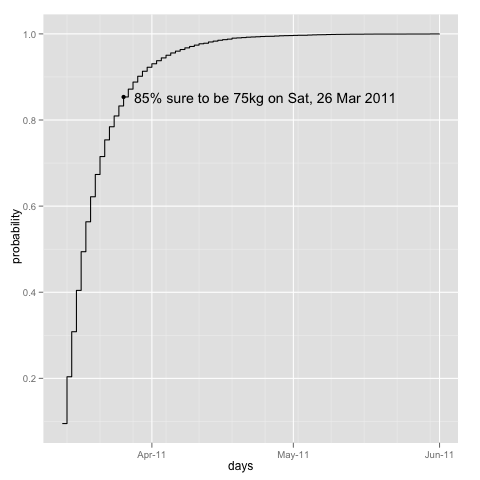
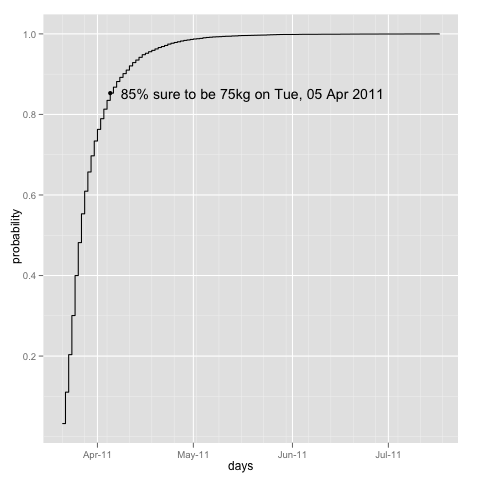
ex5.2

diff --git a/_includes/tags.html b/_includes/tags.html
@@ -1,1 +1,1 @@
-<h3 id="title-tags">tags</h3><div id="tags"><a href="/tags/abtesting.html" id="tag" title="Postings tagged abtesting" style="font-size: 13.0px; line-height:13.0px">abtesting</a> <a href="/tags/automations.html" id="tag" title="Postings tagged automations" style="font-size: 19.0px; line-height:19.0px">automations</a> <a href="/tags/clojure.html" id="tag" title="Postings tagged clojure" style="font-size: 16.0px; line-height:16.0px">clojure</a> <a href="/tags/emacs.html" id="tag" title="Postings tagged emacs" style="font-size: 14.5px; line-height:14.5px">emacs</a> <a href="/tags/google.html" id="tag" title="Postings tagged google" style="font-size: 11.5px; line-height:11.5px">google</a> <a href="/tags/guitar.html" id="tag" title="Postings tagged guitar" style="font-size: 11.5px; line-height:11.5px">guitar</a> <a href="/tags/health.html" id="tag" title="Postings tagged health" style="font-size: 11.5px; line-height:11.5px">health</a> <a href="/tags/incanter.html" id="tag" title="Postings tagged incanter" style="font-size: 11.5px; line-height:11.5px">incanter</a> <a href="/tags/javascript.html" id="tag" title="Postings tagged javascript" style="font-size: 11.5px; line-height:11.5px">javascript</a> <a href="/tags/jquery.html" id="tag" title="Postings tagged jquery" style="font-size: 11.5px; line-height:11.5px">jquery</a> <a href="/tags/keyboard.html" id="tag" title="Postings tagged keyboard" style="font-size: 11.5px; line-height:11.5px">keyboard</a> <a href="/tags/mac.html" id="tag" title="Postings tagged mac" style="font-size: 11.5px; line-height:11.5px">mac</a> <a href="/tags/machinelearning.html" id="tag" title="Postings tagged machinelearning" style="font-size: 17.5px; line-height:17.5px">machinelearning</a> <a href="/tags/mathematics.html" id="tag" title="Postings tagged mathematics" style="font-size: 11.5px; line-height:11.5px">mathematics</a> <a href="/tags/matlab.html" id="tag" title="Postings tagged matlab" style="font-size: 11.5px; line-height:11.5px">matlab</a> <a href="/tags/montecarlo.html" id="tag" title="Postings tagged montecarlo" style="font-size: 13.0px; line-height:13.0px">montecarlo</a> <a href="/tags/org-mode.html" id="tag" title="Postings tagged org-mode" style="font-size: 14.5px; line-height:14.5px">org-mode</a> <a href="/tags/photo.html" id="tag" title="Postings tagged photo" style="font-size: 11.5px; line-height:11.5px">photo</a> <a href="/tags/processing.html" id="tag" title="Postings tagged processing" style="font-size: 11.5px; line-height:11.5px">processing</a> <a href="/tags/prolog.html" id="tag" title="Postings tagged prolog" style="font-size: 11.5px; line-height:11.5px">prolog</a> <a href="/tags/r.html" id="tag" title="Postings tagged r" style="font-size: 20.5px; line-height:20.5px">r</a> <a href="/tags/regressionanalysis.html" id="tag" title="Postings tagged regressionanalysis" style="font-size: 17.5px; line-height:17.5px">regressionanalysis</a> <a href="/tags/ruby.html" id="tag" title="Postings tagged ruby" style="font-size: 13.0px; line-height:13.0px">ruby</a> <a href="/tags/selenium.html" id="tag" title="Postings tagged selenium" style="font-size: 13.0px; line-height:13.0px">selenium</a> <a href="/tags/sicp.html" id="tag" title="Postings tagged sicp" style="font-size: 11.5px; line-height:11.5px">sicp</a> <a href="/tags/sql.html" id="tag" title="Postings tagged sql" style="font-size: 11.5px; line-height:11.5px">sql</a> <a href="/tags/statistics.html" id="tag" title="Postings tagged statistics" style="font-size: 22.0px; line-height:22.0px">statistics</a> <a href="/tags/twitter.html" id="tag" title="Postings tagged twitter" style="font-size: 13.0px; line-height:13.0px">twitter</a> <a href="/tags/webcrawler.html" id="tag" title="Postings tagged webcrawler" style="font-size: 13.0px; line-height:13.0px">webcrawler</a> </div>
+<h3 id="title-tags">tags</h3><div id="tags"><a href="/tags/abtesting.html" id="tag" title="Postings tagged abtesting" style="font-size: 13.0px; line-height:13.0px">abtesting</a> <a href="/tags/automations.html" id="tag" title="Postings tagged automations" style="font-size: 19.0px; line-height:19.0px">automations</a> <a href="/tags/clojure.html" id="tag" title="Postings tagged clojure" style="font-size: 16.0px; line-height:16.0px">clojure</a> <a href="/tags/emacs.html" id="tag" title="Postings tagged emacs" style="font-size: 14.5px; line-height:14.5px">emacs</a> <a href="/tags/google.html" id="tag" title="Postings tagged google" style="font-size: 11.5px; line-height:11.5px">google</a> <a href="/tags/guitar.html" id="tag" title="Postings tagged guitar" style="font-size: 11.5px; line-height:11.5px">guitar</a> <a href="/tags/health.html" id="tag" title="Postings tagged health" style="font-size: 11.5px; line-height:11.5px">health</a> <a href="/tags/javascript.html" id="tag" title="Postings tagged javascript" style="font-size: 11.5px; line-height:11.5px">javascript</a> <a href="/tags/keyboard.html" id="tag" title="Postings tagged keyboard" style="font-size: 11.5px; line-height:11.5px">keyboard</a> <a href="/tags/machinelearning.html" id="tag" title="Postings tagged machinelearning" style="font-size: 17.5px; line-height:17.5px">machinelearning</a> <a href="/tags/mathematics.html" id="tag" title="Postings tagged mathematics" style="font-size: 11.5px; line-height:11.5px">mathematics</a> <a href="/tags/matlab.html" id="tag" title="Postings tagged matlab" style="font-size: 11.5px; line-height:11.5px">matlab</a> <a href="/tags/montecarlo.html" id="tag" title="Postings tagged montecarlo" style="font-size: 13.0px; line-height:13.0px">montecarlo</a> <a href="/tags/org-mode.html" id="tag" title="Postings tagged org-mode" style="font-size: 14.5px; line-height:14.5px">org-mode</a> <a href="/tags/photo.html" id="tag" title="Postings tagged photo" style="font-size: 11.5px; line-height:11.5px">photo</a> <a href="/tags/processing.html" id="tag" title="Postings tagged processing" style="font-size: 11.5px; line-height:11.5px">processing</a> <a href="/tags/prolog.html" id="tag" title="Postings tagged prolog" style="font-size: 11.5px; line-height:11.5px">prolog</a> <a href="/tags/r.html" id="tag" title="Postings tagged r" style="font-size: 20.5px; line-height:20.5px">r</a> <a href="/tags/ruby.html" id="tag" title="Postings tagged ruby" style="font-size: 14.5px; line-height:14.5px">ruby</a> <a href="/tags/selenium.html" id="tag" title="Postings tagged selenium" style="font-size: 13.0px; line-height:13.0px">selenium</a> <a href="/tags/sicp.html" id="tag" title="Postings tagged sicp" style="font-size: 11.5px; line-height:11.5px">sicp</a> <a href="/tags/sql.html" id="tag" title="Postings tagged sql" style="font-size: 11.5px; line-height:11.5px">sql</a> <a href="/tags/statistics.html" id="tag" title="Postings tagged statistics" style="font-size: 23.5px; line-height:23.5px">statistics</a> <a href="/tags/twitter.html" id="tag" title="Postings tagged twitter" style="font-size: 13.0px; line-height:13.0px">twitter</a> <a href="/tags/webcrawler.html" id="tag" title="Postings tagged webcrawler" style="font-size: 13.0px; line-height:13.0px">webcrawler</a> </div>

diff --git a/_posts/2011-02-05-weight-loss-predictor.html b/_posts/2011-02-05-weight-loss-predictor.html
@@ -55,11 +55,11 @@ tail(mydata, 5)
 
 <pre class="example">
      timestamp   kg delta       day
-142 2011-03-06 77.2   0.3    Sunday
-143 2011-03-07 77.3   0.1    Monday
-144 2011-03-08 76.9  -0.4   Tuesday
-145 2011-03-09 76.4  -0.5 Wednesday
-146 2011-03-11 76.1  -0.3    Friday
+151 2011-03-16 75.6   0.2 Wednesday
+152 2011-03-17 75.5  -0.1  Thursday
+153 2011-03-18 75.6   0.1    Friday
+154 2011-03-19 76.1   0.5  Saturday
+155 2011-03-20 76.0  -0.1    Sunday
 </pre>
 
 
@@ -170,12 +170,12 @@ dietalldays$delta = c(0, kgdelta)
 
 
 <pre class="example">
-    timestamp    kg delta       day
-50 2011-03-07 77.30  0.10    Monday
-51 2011-03-08 76.90 -0.40   Tuesday
-52 2011-03-09 76.40 -0.50 Wednesday
-53 2011-03-10 76.25 -0.15      &lt;NA&gt;
-54 2011-03-11 76.10 -0.15    Friday
+    timestamp   kg delta       day
+59 2011-03-16 75.6   0.2 Wednesday
+60 2011-03-17 75.5  -0.1  Thursday
+61 2011-03-18 75.6   0.1    Friday
+62 2011-03-19 76.1   0.5  Saturday
+63 2011-03-20 76.0  -0.1    Sunday
 </pre>
 
 
@@ -208,7 +208,7 @@ summary(mcWeightWeek)
 
 <pre class="example">
    Min. 1st Qu.  Median    Mean 3rd Qu.    Max. 
-  70.80   74.35   75.05   75.05   75.75   78.80
+  70.50   74.42   75.10   75.10   75.78   78.70
 </pre>
 
 
@@ -261,7 +261,7 @@ summary(mcDays75)
 
 <pre class="example">
    Min. 1st Qu.  Median    Mean 3rd Qu.    Max. 
-  2.000   4.000   7.000   9.073  11.000  82.000
+  1.000   4.000   7.000   9.641  12.000 119.000
 </pre>
 
 

diff --git a/_posts/2011-03-20-ml-ex52.html b/_posts/2011-03-20-ml-ex52.html
@@ -4,7 +4,6 @@ title: Machine Learning Ex5.2 - Regularized Logistic Regression
 categories: 
 - r
 - machinelearning
-- regressionanalysis
 - statistics
 ---
 
@@ -247,10 +246,10 @@ Validate that is converging properly, by plotting the Cost(J) function against t
 <img src="http://al3xandr3.github.com/img/ml-ex52-j.png" alt="http://al3xandr3.github.com/img/ml-ex52-j.png" />
 </p>
 <p>
-Converging well and fast, as is typical from the newton's method.
+Converging well and fast, as is typical from Newton's method.
 </p>
 <p>
-And now we make it iterate for 2 other lambda values for comparing fits later:
+And now we make it iterate for \(\lambda=0\) and \(\lambda=10\) for comparing fits later:
 </p>
 
 
@@ -310,7 +309,7 @@ legend(<span style="color: #8b2252;">"topright"</span>,  c(expression(lambda==0)
 <img src="http://al3xandr3.github.com/img/ml-ex52-fit.png" alt="http://al3xandr3.github.com/img/ml-ex52-fit.png" />
 </p>
 <p>
-See that the black one is the more tightly fit to the points \(\lambda=0\), and as we increase Lambda values it becomes more loose(and generalized).
+See that the black one is the more tightly fit to the crosses \(\lambda=0\), and as we increase Lambda values it becomes more loose(and more generalized).
 </p></div>
 </div>
 <div id="postamble">

diff --git a/_posts/2011-03-18-ml-ex51.html b/_posts/2011-03-18-ml-ex51.html
@@ -4,7 +4,6 @@ title: Machine Learning Ex5.1 - Regularized Linear Regression
 categories: 
 - r
 - machinelearning
-- regressionanalysis
 - statistics
 ---
 
@@ -15,7 +14,7 @@ categories:
 
 
 <p>
-<a href="http://openclassroom.stanford.edu/MainFolder/DocumentPage.php?course=MachineLearning&amp;doc=exercises/ex4/ex4.html">Exercise 5.1</a> Improves the Linear Regression implementation done in <a href="http://al3xandr3.github.com/2011/03/08/ml-ex3.html">Exercise 3</a> by adding a regularization parameter that reduces the problem of over-fitting. 
+<a href="http://openclassroom.stanford.edu/MainFolder/DocumentPage.php?course=MachineLearning&amp;doc=exercises/ex5/ex5.html">Exercise 5.1</a> Improves the Linear Regression implementation done in <a href="http://al3xandr3.github.com/2011/03/08/ml-ex3.html">Exercise 3</a> by adding a regularization parameter that reduces the problem of over-fitting. 
 </p>
 <p>
 Over-fitting occurs especially when fitting a high-order polynomial, that we will try to do here.

diff --git a/tags/statistics.html b/tags/statistics.html
@@ -5,6 +5,11 @@ title: Posts on "statistics"
     <h1 id="statistics">Posts on "statistics"</h1>
 <div id="category-list"><ul class="posts">
         <li>
+          <a href="/2008/01/14/visualizing-data-processing-ruby.html">Visualizing Data, with Processing and JRuby</a>
+          <span id="post-date" class="alt">14 Jan 2008</span>
+       </li>
+
+        <li>
           <a href="/2009/08/27/clojure-basketball-probabilities.html">Probability simulation of basketball throws</a>
           <span id="post-date" class="alt">27 Aug 2009</span>
        </li>

diff --git a/tags/org-mode.html b/tags/org-mode.html
@@ -5,7 +5,7 @@ title: Posts on "org-mode"
     <h1 id="org-mode">Posts on "org-mode"</h1>
 <div id="category-list"><ul class="posts">
         <li>
-          <a href="/2010/03/08/automate-orgmode-todo-export.html">Automating todo tasks reports with orgmode</a>
+          <a href="/2010/03/08/automate-orgmode-todo-export.html">Automating todo tasks reports with org-mode</a>
           <span id="post-date" class="alt">08 Mar 2010</span>
        </li>
 

diff --git a/tags/emacs.html b/tags/emacs.html
@@ -5,7 +5,7 @@ title: Posts on "emacs"
     <h1 id="emacs">Posts on "emacs"</h1>
 <div id="category-list"><ul class="posts">
         <li>
-          <a href="/2010/03/08/automate-orgmode-todo-export.html">Automating todo tasks reports with orgmode</a>
+          <a href="/2010/03/08/automate-orgmode-todo-export.html">Automating todo tasks reports with org-mode</a>
           <span id="post-date" class="alt">08 Mar 2010</span>
        </li>
 

diff --git a/tags/ruby.html b/tags/ruby.html
@@ -13,4 +13,9 @@ title: Posts on "ruby"
           <a href="/2008/11/25/ruby-foto-organizer.html">Little 'ruby' photo organizer</a>
           <span id="post-date" class="alt">25 Nov 2008</span>
        </li>
+
+        <li>
+          <a href="/2010/03/08/automate-orgmode-todo-export.html">Automating todo tasks reports with org-mode</a>
+          <span id="post-date" class="alt">08 Mar 2010</span>
+       </li>
 </div></ul>

diff --git a/tags/automations.html b/tags/automations.html
@@ -15,7 +15,7 @@ title: Posts on "automations"
        </li>
 
         <li>
-          <a href="/2010/03/08/automate-orgmode-todo-export.html">Automating todo tasks reports with orgmode</a>
+          <a href="/2010/03/08/automate-orgmode-todo-export.html">Automating todo tasks reports with org-mode</a>
           <span id="post-date" class="alt">08 Mar 2010</span>
        </li>
 

diff --git a/_posts/2010-03-08-automate-orgmode-todo-export.html b/_posts/2010-03-08-automate-orgmode-todo-export.html
@@ -1,10 +1,11 @@
 --- 
 layout: post
-title: Automating todo tasks reports with orgmode
+title: Automating todo tasks reports with org-mode
 categories: 
 - org-mode
 - emacs
 - automations
+- ruby
 ---
 
 

diff --git a/_posts/2011-03-16-ml-ex4.html b/_posts/2011-03-16-ml-ex4.html
@@ -4,7 +4,6 @@ title: Machine Learning Ex4 - Logistic Regression and Newton's Method
 categories: 
 - r
 - machinelearning
-- regressionanalysis
 - statistics
 ---
 

diff --git a/_posts/2011-03-08-ml-ex3.html b/_posts/2011-03-08-ml-ex3.html
@@ -4,7 +4,6 @@ title: Machine Learning Ex3 - Multivariate Linear Regression
 categories: 
 - r
 - machinelearning
-- regressionanalysis
 - statistics
 ---
 
